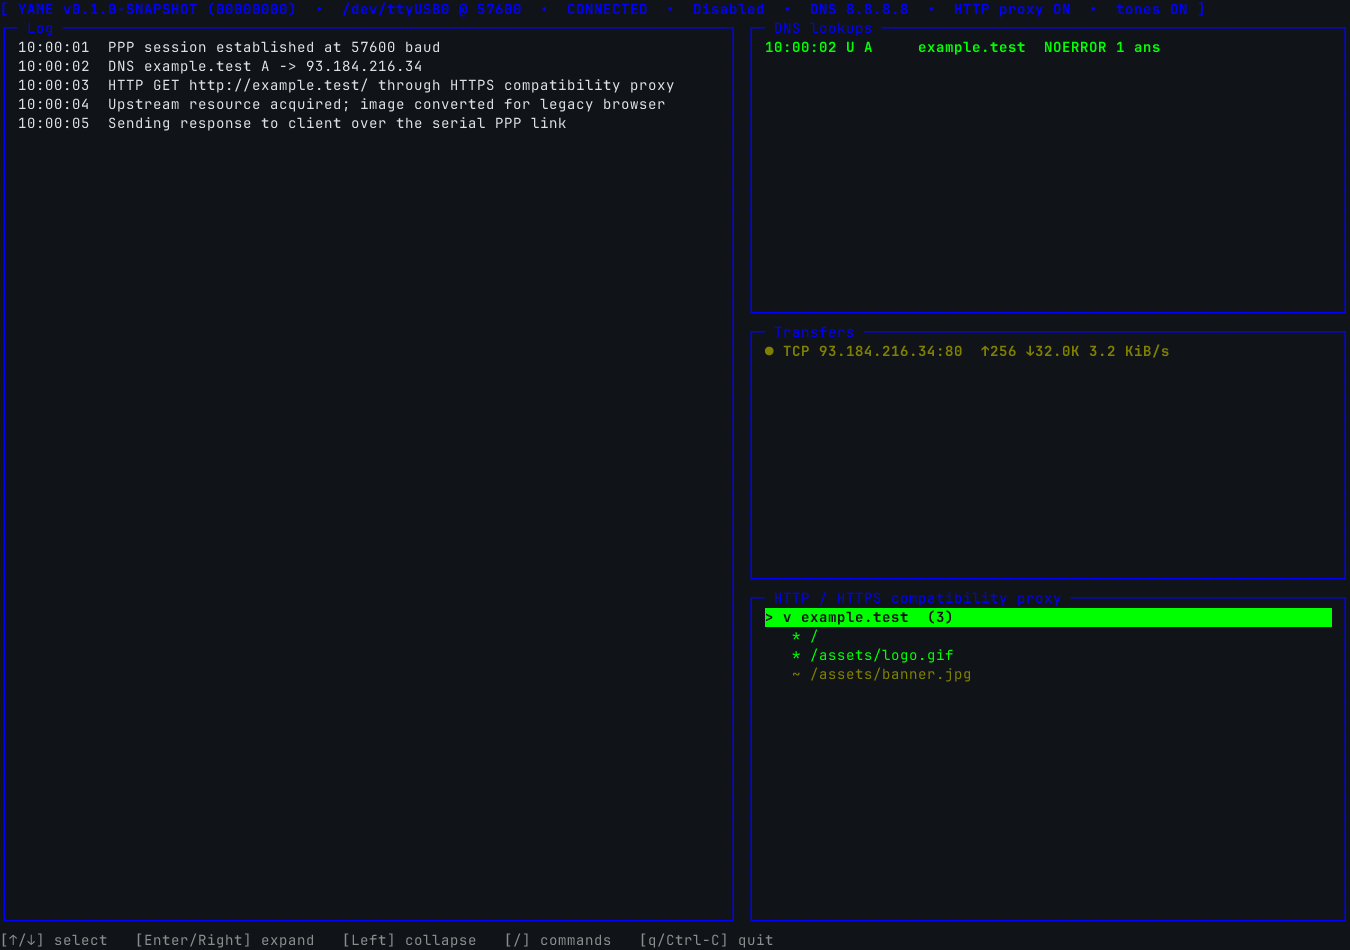
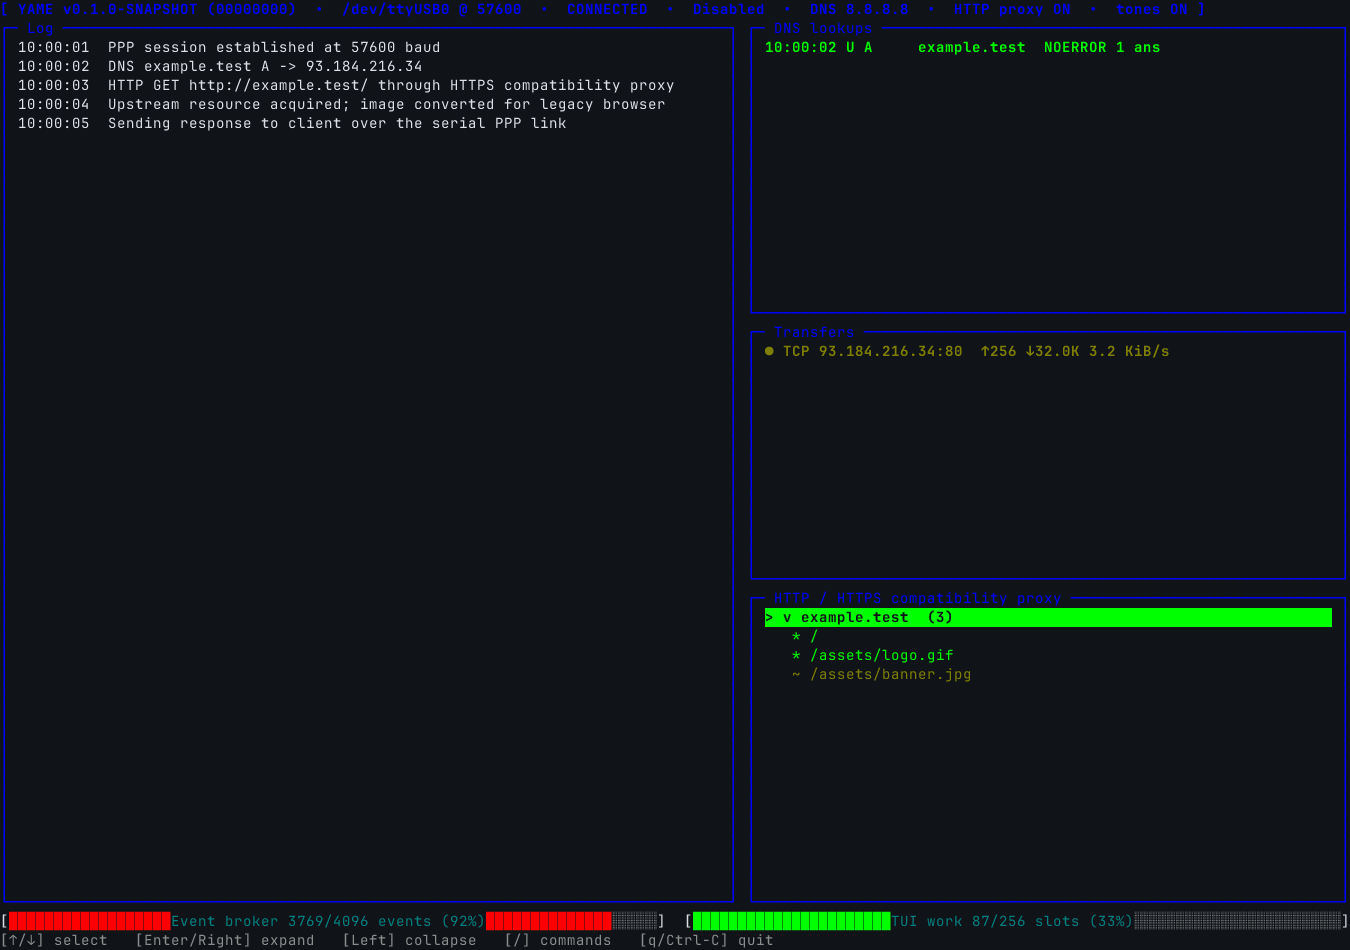
Show EventBroker and TUI queue occupancy bars on wide dashboards (#140)

Changed region(s): [[0.0, 0.9463, 1.0, 1.0]]

diff --git a/src/main/kotlin/no/skasti/yame/ui/TuiYameObserver.kt b/src/main/kotlin/no/skasti/yame/ui/TuiYameObserver.kt
@@ -1105,6 +1105,17 @@ class TuiYameObserver(
 
     private fun renderFrame() {
         if (closed || !screenStarted) return
+        // Read bounded queue depths only while painting the wide layout.
+        // These are snapshots, not observation events added to either queue.
+        val queueBars = if (terminal.size.width > WIDE_DASHBOARD_THRESHOLD &&
+            terminal.size.height >= MIN_QUEUE_BAR_HEIGHT
+        ) {
+            val broker = no.skasti.yame.observer.YameEvents.current
+            QueueBars(
+                broker = QueueOccupancy(broker.status.queuedEvents, broker.config.capacity),
+                tui = work.occupancy,
+            )
+        } else null
         val frame = YameDashboardRenderer.render(
             state = httpHostSnapshots().let { httpHosts ->
                 DashboardState(
@@ -1120,6 +1131,7 @@ class TuiYameObserver(
                     transfers = transfers.values.toList(),
                     httpHosts = httpHosts,
                     proxyStatus = httpGraphs.status,
+                    queueBars = queueBars,
                     selectedHttpHostIndex = httpHosts
                         .indexOfFirst { it.host == selectedHttpHost }
                         .coerceAtLeast(0),
@@ -1298,6 +1310,7 @@ internal data class DashboardState(
     val activeDetailPanel: DashboardDetailPanel = DashboardDetailPanel.PROXY,
     val headerElapsedNanos: Long = 0,
     val proxyStatus: String? = null,
+    val queueBars: QueueBars? = null,
 )
 
 internal enum class DashboardDetailPanel(val title: String) {
@@ -1309,6 +1322,24 @@ internal enum class DashboardDetailPanel(val title: String) {
 }
 
 private const val WIDE_DASHBOARD_THRESHOLD = 149
+private const val MIN_QUEUE_BAR_HEIGHT = 30
+
+/**
+ * Queue occupancy excludes the currently executing event or work slot.
+ * A live capacity reduction may temporarily leave queued > capacity;
+ * retain the true count while the existing work drains.
+ */
+internal data class QueueOccupancy(val queued: Int, val capacity: Int) {
+    init {
+        require(capacity > 0)
+        require(queued >= 0)
+    }
+}
+
+internal data class QueueBars(
+    val broker: QueueOccupancy,
+    val tui: QueueOccupancy,
+)
 
 internal data class DashboardStyles(
     val border: (String) -> String = { it },
@@ -1380,11 +1411,13 @@ internal object YameDashboardRenderer {
 
         val headerHeight = 1
         val footerHeight = 1
-        val bodyHeight = renderHeight - headerHeight - footerHeight
-        val gap = 1
         if (renderWidth <= WIDE_DASHBOARD_THRESHOLD) {
             return renderStackedBody(state, renderWidth, renderHeight, styles)
         }
+        val showQueueBars = state.queueBars != null && renderHeight >= MIN_QUEUE_BAR_HEIGHT
+        val queueBarHeight = if (showQueueBars) 1 else 0
+        val bodyHeight = renderHeight - headerHeight - footerHeight - queueBarHeight
+        val gap = 1
         val leftWidth = (renderWidth * 55 / 100)
             .coerceIn(38, renderWidth - 32)
         val rightWidth = renderWidth - leftWidth - gap
@@ -1471,7 +1504,50 @@ internal object YameDashboardRenderer {
             clip(footerText, renderWidth).padEnd(renderWidth),
         )
 
-        return "$header\n$body\n$footer"
+        val queueFooter = if (showQueueBars) {
+            val queues = requireNotNull(state.queueBars)
+            val space = "  "
+            val firstWidth = (renderWidth - space.length) / 2
+            val secondWidth = renderWidth - space.length - firstWidth
+            "\n" + queueBar("Event broker", queues.broker, "events", firstWidth, styles) +
+                space + queueBar("TUI work", queues.tui, "slots", secondWidth, styles)
+        } else ""
+        return "$header\n$body$queueFooter\n$footer"
+    }
+
+    /**
+     * A compact single-row meter with its title, queue usage and percentage
+     * centered *inside* the track. The underlying filled/unfilled cells are
+     * preserved on either side of the caption.
+     */
+    private fun queueBar(
+        label: String,
+        usage: QueueOccupancy,
+        unit: String,
+        width: Int,
+        styles: DashboardStyles,
+    ): String {
+        val percent = (usage.queued.toLong() * 100 / usage.capacity).toInt()
+        val trackWidth = width - 2 // Opening and closing brackets.
+        val filled = if (usage.queued == 0) 0 else
+            ((usage.queued.toLong() * trackWidth + usage.capacity - 1) / usage.capacity)
+                .toInt().coerceIn(1, trackWidth)
+        val caption = "$label ${usage.queued}/${usage.capacity} $unit ($percent%)"
+        require(caption.length <= trackWidth) { "Queue bar too narrow for its caption" }
+        val captionStart = (trackWidth - caption.length) / 2
+        val paint = when {
+            percent >= 90 -> styles.danger
+            percent >= 70 -> styles.warning
+            else -> styles.success
+        }
+        fun trackSegment(from: Int, until: Int): String {
+            val full = (filled - from).coerceIn(0, until - from)
+            val empty = until - from - full
+            return (if (full > 0) paint("█".repeat(full)) else "") +
+                (if (empty > 0) styles.muted("░".repeat(empty)) else "")
+        }
+        return "[" + trackSegment(0, captionStart) + styles.accent(caption) +
+            trackSegment(captionStart + caption.length, trackWidth) + "]"
     }
 
     private fun renderStackedBody(

diff --git a/src/test/kotlin/no/skasti/yame/ui/YameDashboardRendererTest.kt b/src/test/kotlin/no/skasti/yame/ui/YameDashboardRendererTest.kt
@@ -75,6 +75,74 @@ class YameDashboardRendererTest {
     }
 
     @Test
+    fun wideDashboardShowsLiveQueueCapacityBarsWithoutChangingFrameDimensions() {
+        val state = DashboardState(
+            portName = null, baud = 115200, connected = false,
+            dnsUpstream = "8.8.8.8", httpProxyEnabled = true,
+            logs = emptyList(), dnsLookups = emptyList(), transfers = emptyList(),
+            httpHosts = emptyList(), selectedHttpHostIndex = 0, commandPalette = null,
+            queueBars = QueueBars(
+                broker = QueueOccupancy(2048, 4096),
+                tui = QueueOccupancy(192, 256),
+            ),
+        )
+        val wide = YameDashboardRenderer.render(state, width = 150, height = 30)
+        val lines = wide.lines()
+        assertEquals(30, lines.size)
+        assertTrue(lines.all { it.length == 150 })
+        // Exactly one bar row, with two meters and their labels *inside* the tracks.
+        assertContains(lines[28], "Event broker 2048/4096 events (50%)")
+        assertContains(lines[28], "TUI work 192/256 slots (75%)")
+        assertEquals(4, lines[28].count { it == '[' || it == ']' })
+        assertContains(lines[29], "[/] commands")
+        assertEquals(1, wide.lines().count { it.contains("░") && it.contains("█") })
+        // The same two lines work with the large layouts too.
+        val large = YameDashboardRenderer.render(state, width = 200, height = 80)
+        assertEquals(80, large.lines().size)
+        assertTrue(large.lines().all { it.length == 200 })
+        assertContains(large.lines()[78], "Event broker")
+        assertContains(large.lines()[78], "TUI work")
+        assertFalse(large.lines()[77].contains("Event broker"))
+    }
+
+    @Test
+    fun queueBarsAreOmittedOnSmallTerminalsAndShortWideTerminals() {
+        val state = DashboardState(
+            portName = null, baud = 115200, connected = false,
+            dnsUpstream = "8.8.8.8", httpProxyEnabled = true,
+            logs = emptyList(), dnsLookups = emptyList(), transfers = emptyList(),
+            httpHosts = emptyList(), selectedHttpHostIndex = 0, commandPalette = null,
+            queueBars = QueueBars(QueueOccupancy(1, 4096), QueueOccupancy(256, 256)),
+        )
+        for ((width, height) in listOf(100 to 30, 149 to 40, 150 to 29, 72 to 22)) {
+            val rendered = YameDashboardRenderer.render(state, width, height)
+            assertFalse(rendered.contains("Event broker"), "${width}x$height")
+            assertFalse(rendered.contains("TUI work"), "${width}x$height")
+            assertEquals(height, rendered.lines().size)
+            assertTrue(rendered.lines().all { it.length == width })
+        }
+        val wide = YameDashboardRenderer.render(state, 150, 30)
+        assertContains(wide, "1/4096 events (0%)")
+        assertContains(wide, "256/256 slots (100%)")
+    }
+
+    @Test
+    fun queueBarsShowTemporaryOverCapacityAfterResizingWithoutCrashing() {
+        val state = DashboardState(
+            portName = null, baud = 115200, connected = false,
+            dnsUpstream = "8.8.8.8", httpProxyEnabled = true,
+            logs = emptyList(), dnsLookups = emptyList(), transfers = emptyList(),
+            httpHosts = emptyList(), selectedHttpHostIndex = 0, commandPalette = null,
+            queueBars = QueueBars(QueueOccupancy(3000, 1024), QueueOccupancy(200, 100)),
+        )
+        val output = YameDashboardRenderer.render(state, width = 150, height = 30)
+        assertContains(output.lines()[28], "3000/1024 events (292%)")
+        assertContains(output.lines()[28], "200/100 slots (200%)")
+        assertEquals(30, output.lines().size)
+        assertTrue(output.lines().all { it.length == 150 })
+    }
+
+    @Test
     fun rendersAllOperationalPanels() {
         val state = DashboardState(
             portName = "COM3",

diff --git a/src/test/kotlin/no/skasti/yame/ui/TuiWorkQueueTest.kt b/src/test/kotlin/no/skasti/yame/ui/TuiWorkQueueTest.kt
@@ -175,6 +175,28 @@ class TuiWorkQueueTest {
         }
     }
 
+    @Test fun `queue occupancy counts pending work slots including batches but not executing work`() {
+        val entered = CountDownLatch(1)
+        val release = CountDownLatch(1)
+        val queue = TuiWorkQueue(capacity = 4)
+        try {
+            queue.submitRequired("Running") { entered.countDown(); release.await() }
+            entered.awaitReady()
+            assertEquals(QueueOccupancy(0, 4), queue.occupancy)
+            repeat(100) {
+                assertTrue(queue.submitObservation("ResourceLifecycleEvent") {})
+            }
+            // 100 observations are stored in two adjacent batches, not 100 slots.
+            assertEquals(QueueOccupancy(2, 4), queue.occupancy)
+            assertTrue(queue.submitRequired("KeyboardInput") {})
+            assertEquals(QueueOccupancy(3, 4), queue.occupancy)
+        } finally {
+            release.countDown()
+            queue.close()
+        }
+        assertEquals(QueueOccupancy(0, 4), queue.occupancy)
+    }
+
     @Test fun `hundreds of resource observations preserve FIFO order without saturating work slots`() {
         val entered = CountDownLatch(1)
         val release = CountDownLatch(1)
@@ -210,6 +232,7 @@ class TuiWorkQueueTest {
     @Test fun `optional redraw never poisons the queue when required observations fill it`() {
         val entered = CountDownLatch(1)
         val release = CountDownLatch(1)
+        val secondCompleted = CountDownLatch(1)
         val accepted = mutableListOf<String>()
         val queue = TuiWorkQueue(capacity = 1, admissionWait = Duration.ZERO)
         try {
@@ -219,10 +242,17 @@ class TuiWorkQueueTest {
                 accepted += "first"
             }
             entered.awaitReady()
-            assertTrue(queue.submitRequired(kind = "ResourceLifecycleEvent") { accepted += "second" })
+            assertTrue(queue.submitRequired(kind = "ResourceLifecycleEvent") {
+                accepted += "second"
+                secondCompleted.countDown()
+            })
             assertFalse(queue.offerRedraw { fail("a redraw must not replace required work") })
             assertNull(queue.fatalFailure)
             release.countDown()
+            // The queue has capacity one and admissionWait=ZERO; asking read()
+            // to enqueue while the second action is still waiting can cause a
+            // spurious fatal timeout. Wait for that accepted action first.
+            secondCompleted.awaitReady()
             queue.read { assertEquals(listOf("first", "second"), accepted) }
             assertTrue(queue.offerRedraw { accepted += "redraw" })
             queue.close()

diff --git a/src/test/kotlin/no/skasti/yame/ui/DashboardScreenshotTest.kt b/src/test/kotlin/no/skasti/yame/ui/DashboardScreenshotTest.kt
@@ -21,9 +21,18 @@ class DashboardScreenshotTest {
             logs = listOf("10:00:00  YAME started", "10:00:00  Serial port opened; waiting for client"),
             dnsLookups = emptyList(), transfers = emptyList(), httpHosts = emptyList(),
             selectedHttpHostIndex = 0, commandPalette = null,
+            // Arbitrary fixture values stay fixed so screenshot diffs are reproducible.
+            queueBars = QueueBars(
+                broker = QueueOccupancy(1379, 4096),
+                tui = QueueOccupancy(193, 256),
+            ),
         )
         val active = startup.copy(
             connected = true,
+            queueBars = QueueBars(
+                broker = QueueOccupancy(3769, 4096),
+                tui = QueueOccupancy(87, 256),
+            ),
             logs = listOf(
                 "10:00:01  PPP session established at 57600 baud",
                 "10:00:02  DNS example.test A -> 93.184.216.34",

diff --git a/src/main/kotlin/no/skasti/yame/ui/TuiWorkQueue.kt b/src/main/kotlin/no/skasti/yame/ui/TuiWorkQueue.kt
@@ -33,6 +33,11 @@ internal class TuiWorkQueue(
     override val fatalFailure: Throwable? get() = fatal.get()
     val isWorker: Boolean get() = Thread.currentThread() === worker
 
+    /** Snapshot queued work slots, not batched event/action counts or the executing slot. */
+    val occupancy: QueueOccupancy get() = lock.withLock {
+        QueueOccupancy(queued = pending.size, capacity = capacity)
+    }
+
     init {
         require(capacity > 0)
         require(!admissionWait.isNegative && !drainWait.isNegative)

diff --git a/README.md b/README.md
@@ -304,6 +304,8 @@ The dashboard contains:
 - **Transfers** — TCP flows with connection state, bytes in both directions, and average transfer rate
 - **HTTP / HTTPS compatibility proxy** — an expandable overview of hosts and the resource URLs YAME currently knows about from the active resource registry
 
+On wide terminals (150+ columns and at least 30 rows), two capacity bars share **one row directly below the panels and above the keyboard help**. Each bar contains its own title, occupied/total count, and percentage: **Event broker** (queued YAME events out of the broker's configured capacity) and **TUI work** (queued worker slots out of the TUI queue capacity). Both exclude the item currently being processed. The TUI work queue batches adjacent observations, so its bar measures occupied slots rather than the number of events inside those batches. The bars are omitted on smaller screens so log and detail panels retain their space. These are momentary queue-occupancy samples taken during regular screen redraws, not transfer progress or extra monitoring events.
+
 When the command palette is closed, use **Up/Down** to select a proxy host, **Enter/Right** to expand it, and **Left** to collapse it. Hosts are kept unique and ordered with recently used hosts first, with usage frequency as a secondary signal. Expanded hosts show the unique paths and queries currently represented by host resource graphs; entries disappear when their registry context is evicted.
 
 For example, the proxy panel may look like:
